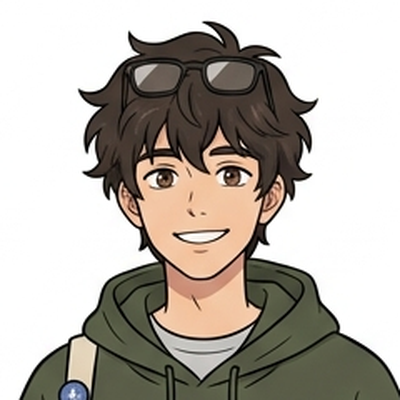
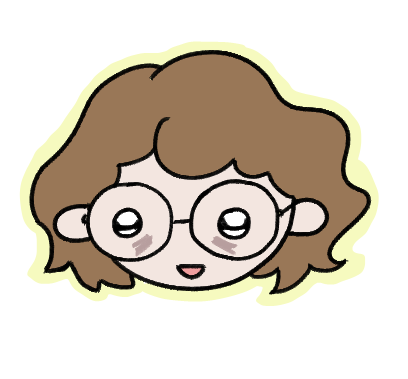
final third

diff --git a/index.html b/index.html
@@ -4,7 +4,7 @@
 <head>
     <meta charset="UTF-8">
     <meta name="viewport" content="width=device-width, initial-scale=1.0">
-    <title>웹툰작가는 1년에 얼마 벌까? - 그 많은 쿠키는 다 누가 먹었을까?</title>
+    <title>웹툰작가는 1년에 얼마 벌까?</title>
     <meta name="description" content="웹툰 작가들의 수익 구조와 MG 제도의 실체를 파헤치는 인터랙티브 저널입니다.">
     <link rel="stylesheet" href="style.css">
 </head>
@@ -367,30 +367,34 @@
                                 <span class="chat-source-tag clickable-source">실제 계약 형태 ⓘ</span>
                                 <div class="statistics-container hover-popup">
                                     <p class="stat-main-desc">
-                                        실제 시장의 대가지급방식은 순수 원고료 계약(41.3%)보다 월MG(35.5%) 및 누적MG(20.2%)를 활용하는 'MG 기반 계약'이 총 55.7%로 과반을 차지합니다.
-                                        수익배분비율(RS)은 작가 기준 '40~50% 미만' 구조가 33.2%로 가장 보편적이며, 계약 체결 시 플랫폼이나 에이전시가 제시한 조건을 그대로 수용한 비율이
+                                        실제 시장의 대가지급방식은 순수 원고료 계약(41.3%)보다 월MG(35.5%) 및 누적MG(20.2%)를 활용하는 'MG 기반 계약'이 총
+                                        55.7%로 과반을 차지합니다.
+                                        수익배분비율(RS)은 작가 기준 '40~50% 미만' 구조가 33.2%로 가장 보편적이며, 계약 체결 시 플랫폼이나 에이전시가 제시한 조건을
+                                        그대로 수용한 비율이
                                         73.1%에 달합니다.
                                     </p>
                                     <div class="chart-wrapper">
                                         <div class="chart-header">
                                             <span>웹툰 작가 실제 계약 형태 (대가지급방식)</span>
-                                            <span class="source-tag">출처: 2025 웹툰산업 실태조사_일반배포용.pdf 232페이지 (2) 대가 지급 방식), 234페이지 (4) 수익분배비율), 254페이지 (2) 계약 시, 계약 조건 결정 방식)</span>
+                                            <span class="source-tag">출처: 2025 웹툰산업 실태조사_일반배포용.pdf 232페이지 (2) 대가 지급 방식),
+                                                234페이지 (4) 수익분배비율), 254페이지 (2) 계약 시, 계약 조건 결정 방식)</span>
                                         </div>
                                         <div class="multi-bar-chart">
                                             <div class="chart-segment segment-mg" style="width: 0%;" data-width="55.7">
                                                 <span class="segment-label">MG 기반 55.7%</span>
                                                 <div class="sub-segments">
-                                                    <div class="sub-segment sub-monthly" style="width: 0%;" data-width="63.7"
-                                                        data-text="월 MG (35.5%)">
+                                                    <div class="sub-segment sub-monthly" style="width: 0%;"
+                                                        data-width="63.7" data-text="월 MG (35.5%)">
                                                         <span class="sub-label">월 MG 35.5%</span>
                                                     </div>
-                                                    <div class="sub-segment sub-accumulative" style="width: 0%;" data-width="36.3"
-                                                        data-text="누적 MG (20.2%)">
+                                                    <div class="sub-segment sub-accumulative" style="width: 0%;"
+                                                        data-width="36.3" data-text="누적 MG (20.2%)">
                                                         <span class="sub-label">누적 MG 20.2%</span>
                                                     </div>
                                                 </div>
                                             </div>
-                                            <div class="chart-segment segment-salary" style="width: 0%;" data-width="41.3">
+                                            <div class="chart-segment segment-salary" style="width: 0%;"
+                                                data-width="41.3">
                                                 <span class="segment-label">원고료 41.3%</span>
                                             </div>
                                             <div class="chart-segment segment-etc" style="width: 0%;" data-width="3.0">
@@ -398,9 +402,12 @@
                                             </div>
                                         </div>
                                         <div class="chart-legend-box">
-                                            <span class="legend-item"><span class="legend-color color-mg"></span>MG 기반 계약 (55.7%)</span>
-                                            <span class="legend-item"><span class="legend-color color-salary"></span>원고료 중심 계약 (41.3%)</span>
-                                            <span class="legend-item"><span class="legend-color color-etc"></span>기타 (3.0%)</span>
+                                            <span class="legend-item"><span class="legend-color color-mg"></span>MG 기반
+                                                계약 (55.7%)</span>
+                                            <span class="legend-item"><span class="legend-color color-salary"></span>원고료
+                                                중심 계약 (41.3%)</span>
+                                            <span class="legend-item"><span class="legend-color color-etc"></span>기타
+                                                (3.0%)</span>
                                         </div>
                                     </div>
                                 </div>
@@ -428,7 +435,8 @@
                     <div class="chat-message pro-msg">
                         <img src="assets/pro_face.png" alt="프로 얼굴" class="chat-profile">
                         <div class="chat-bubbles">
-                            <div class="bubble">월 MG는 한 달이 지나면 정산이 리셋되지만, 누적 MG는 못 갚은 금액이 계속 다음 달로 이월되어서 쌓이는 방식이야. 결국 작품이 크게 흥행하지 못하면 계속 빚만 쌓이는 거지.</div>
+                            <div class="bubble">월 MG는 한 달이 지나면 정산이 리셋되지만, 누적 MG는 못 갚은 금액이 계속 다음 달로 이월되어서 쌓이는 방식이야. 결국
+                                작품이 크게 흥행하지 못하면 계속 빚만 쌓이는 거지.</div>
                         </div>
                     </div>
                 </div>
@@ -459,7 +467,8 @@
                     <div class="chat-message pro-msg">
                         <img src="assets/pro_face.png" alt="프로 얼굴" class="chat-profile">
                         <div class="chat-bubbles">
-                            <div class="bubble">쉽게 말해, <strong>RS는 플랫폼과 작가가 돈을 나누는 비율</strong>이고, <strong>리쿠프는 네가 미리 받아 간 가불금(MG)을 메꿔 넣어야 하는 규칙</strong>이야. 이 두 규칙이 복잡하게 얽히면서 작가에게 불리하게 작동하곤 하지.</div>
+                            <div class="bubble">쉽게 말해, <strong>RS는 플랫폼과 작가가 돈을 나누는 비율</strong>이고, <strong>리쿠프는 네가 미리 받아
+                                    간 가불금(MG)을 메꿔 넣어야 하는 규칙</strong>이야. 이 두 규칙이 복잡하게 얽히면서 작가에게 불리하게 작동하곤 하지.</div>
                         </div>
                     </div>
                 </div>
@@ -475,7 +484,8 @@
                     <div class="chat-message pro-msg">
                         <img src="assets/pro_face.png" alt="프로 얼굴" class="chat-profile">
                         <div class="chat-bubbles">
-                            <div class="bubble">네가 선택한 계약서를 다시 띄워줄게. 밑줄 쳐진 핵심 조항들을 눌러보면서 어떤 독소 조항들이 숨어 있는지 직접 확인해봐.</div>
+                            <div class="bubble">네가 선택한 계약서를 다시 띄워줄게. 밑줄 쳐진 핵심 조항들을 눌러보면서 어떤 독소 조항들이 숨어 있는지 직접 확인해봐.
+                            </div>
                         </div>
                     </div>
                 </div>
@@ -493,7 +503,8 @@
                         <div class="concept-card-list">
                             <div class="concept-mini-card">
                                 <span class="card-term">월 MG</span>
-                                <p class="card-definition">매달 MG를 먼저 지급받고 수익으로 그 MG를 갚는다. 이번 달에 MG를 다 못 채워도 다음 달에 빚이 쌓이지 않는다.</p>
+                                <p class="card-definition">매달 MG를 먼저 지급받고 수익으로 그 MG를 갚는다. 이번 달에 MG를 다 못 채워도 다음 달에 빚이 쌓이지
+                                    않는다.</p>
                             </div>
                             <div class="concept-mini-card">
                                 <span class="card-term">누적 MG</span>
@@ -505,7 +516,8 @@
                             </div>
                             <div class="concept-mini-card">
                                 <span class="card-term">시즌 MG</span>
-                                <p class="card-definition">한 시즌(예: 50화) 분량의 돈을 한 번에 통째로 묶어 주는 방식이다. 휴재하거나 마감이 늦어지면 작가가 손해를 감수해야 한다.</p>
+                                <p class="card-definition">한 시즌(예: 50화) 분량의 돈을 한 번에 통째로 묶어 주는 방식이다. 휴재하거나 마감이 늦어지면 작가가
+                                    손해를 감수해야 한다.</p>
                             </div>
                         </div>
                     </div>
@@ -542,10 +554,17 @@
 
                 <!-- 구체적 수치 예시 대화 (개념 카드 리스트 밑에 삽입) -->
                 <div class="chat-container scene7-chat">
+                    <div class="chat-message student-msg">
+                        <img src="assets/student_face.png" alt="학생 얼굴" class="chat-profile">
+                        <div class="chat-bubbles">
+                            <div class="bubble">선차감 후차감은 무슨 차이인 거예요?</div>
+                        </div>
+                    </div>
                     <div class="chat-message pro-msg">
                         <img src="assets/pro_face.png" alt="프로 얼굴" class="chat-profile">
                         <div class="chat-bubbles">
-                            <div class="bubble">예를 들어 내가 회당 MG 150만 원에 계약을 했다고 치자. 한 달(4화 기준) 동안 총 600만 원의 MG를 가불받은 셈이지.</div>
+                            <div class="bubble">예를 들어 내가 회당 MG 150만 원에 계약을 했다고 치자. 한 달(4화 기준) 동안 총 600만 원의 MG를 가불받은 셈이지.
+                            </div>
                             <div class="bubble">만약 이 작품의 유료 매출이 1,000만 원이고, 작가 RS(수익 분배 비율)가 40%라면 어떨까?</div>
                         </div>
                     </div>
@@ -558,9 +577,12 @@
                     <div class="chat-message pro-msg">
                         <img src="assets/pro_face.png" alt="프로 얼굴" class="chat-profile">
                         <div class="chat-bubbles">
-                            <div class="bubble">전혀 달라. <strong>선차감</strong>은 매출 1,000만 원에서 MG 600만 원을 먼저 갚은 뒤, 남은 400만 원의 40%인 <strong>추가 정산금 160만 원</strong>을 더 받아가. (총 수령액 760만 원)</div>
-                            <div class="bubble">반면 <strong>후차감</strong>은 전체 매출을 RS 비율대로 쪼개서 작가 몫(40%) 400만 원을 먼저 정해. 그리고 그 '작가 몫'에서 MG 600만 원을 차감하지.</div>
-                            <div class="bubble">결국 추가 정산금은 <strong>0원</strong>이 되고, 갚지 못한 200만 원은 다음 달 <strong>누적 MG(빚)</strong>로 이월되는 거야.</div>
+                            <div class="bubble">전혀 달라. <strong>선차감</strong>은 매출 1,000만 원에서 MG 600만 원을 먼저 갚은 뒤, 남은 400만
+                                원의 40%인 <strong>추가 정산금 160만 원</strong>을 더 받아가. (총 수령액 760만 원)</div>
+                            <div class="bubble">반면 <strong>후차감</strong>은 전체 매출을 RS 비율대로 쪼개서 작가 몫(40%) 400만 원을 먼저 정해. 그리고
+                                그 '작가 몫'에서 MG 600만 원을 차감하지.</div>
+                            <div class="bubble">결국 추가 정산금은 <strong>0원</strong>이 되고, 갚지 못한 200만 원은 다음 달 <strong>누적
+                                    MG(빚)</strong>로 이월되는 거야.</div>
                         </div>
                     </div>
                     <div class="chat-message student-msg">
